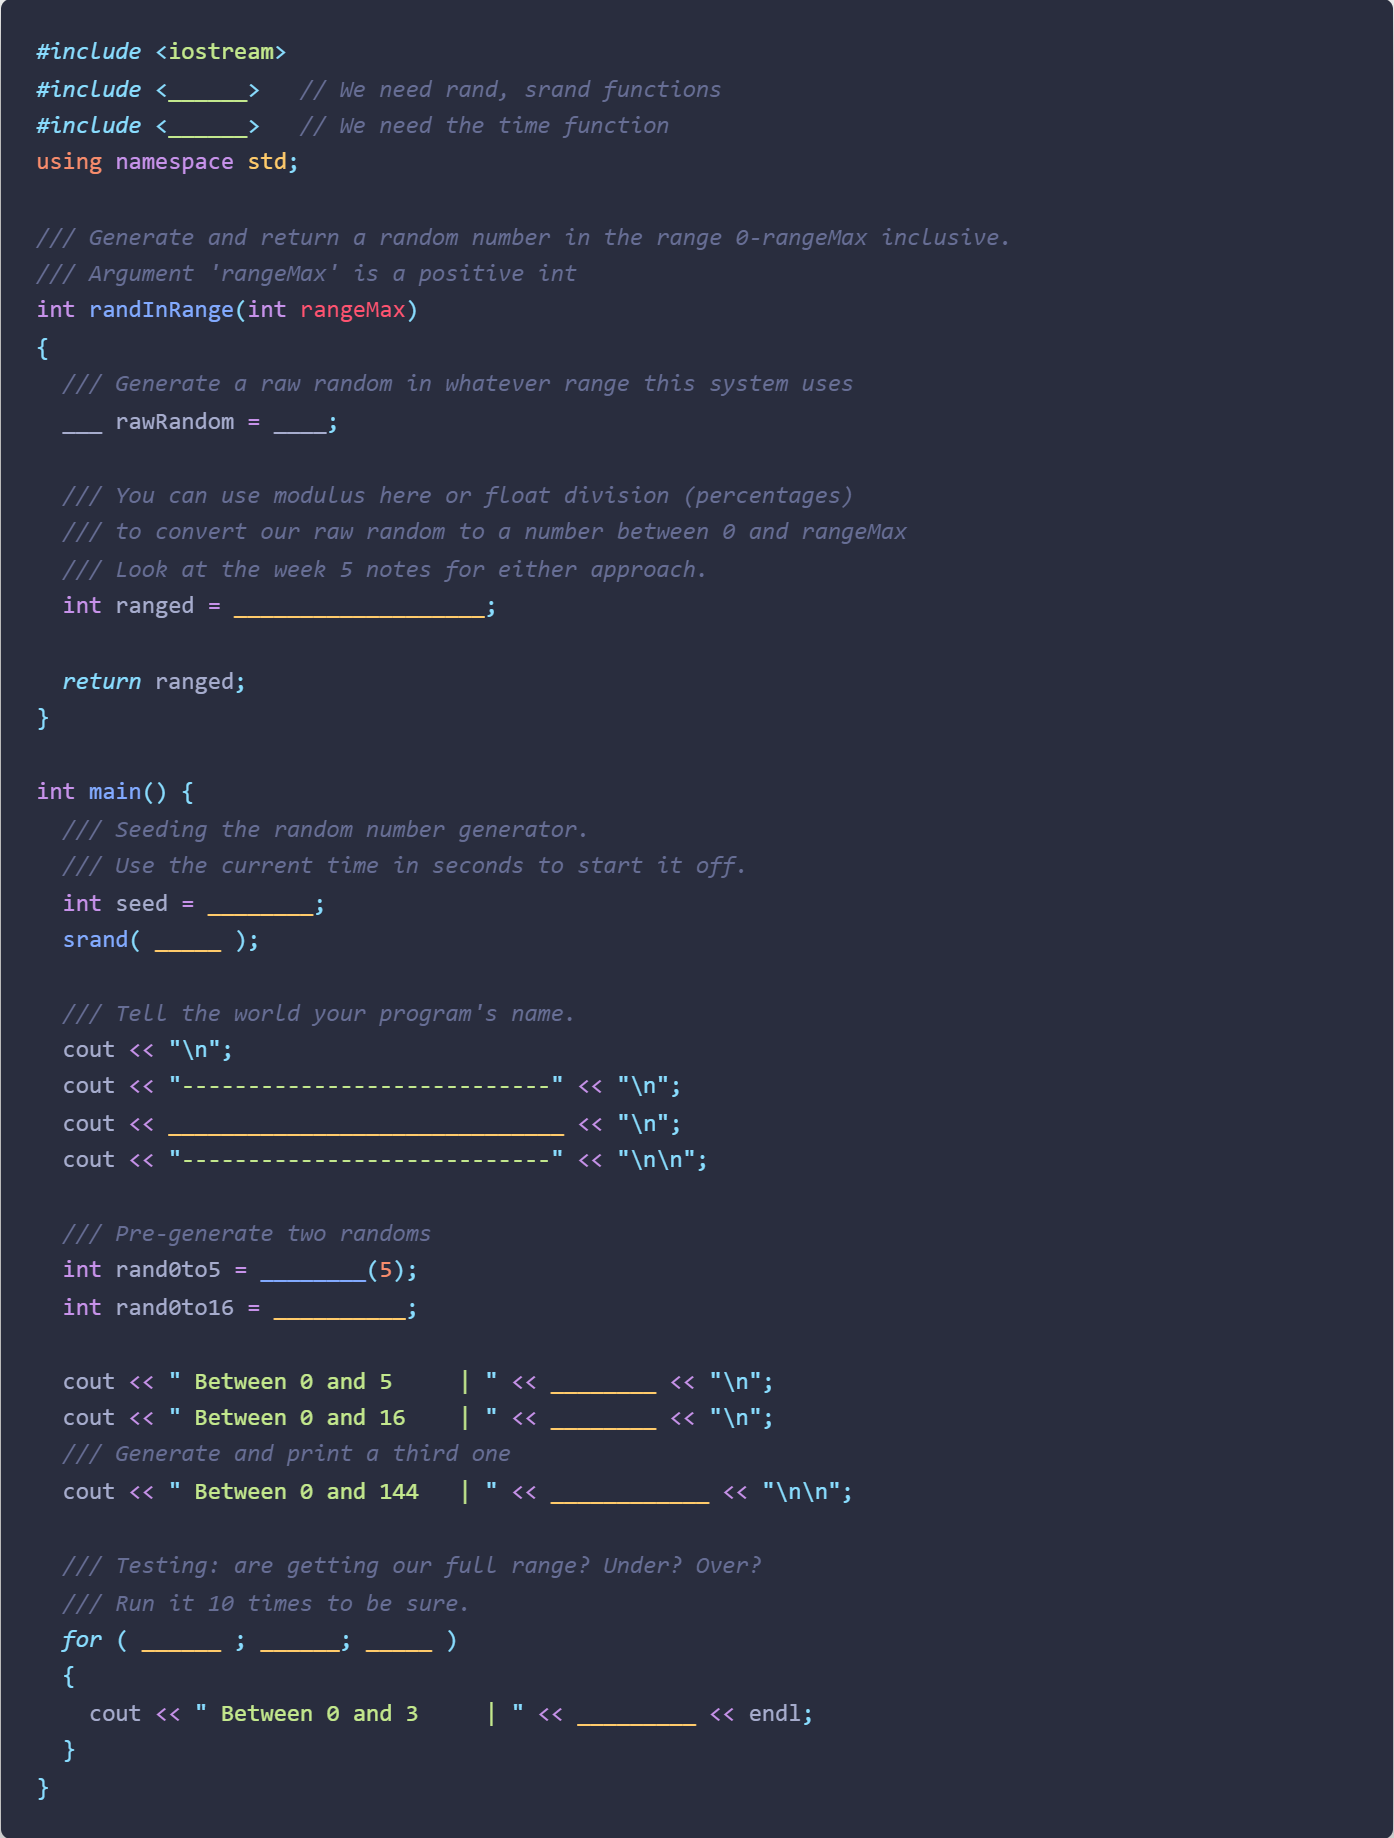
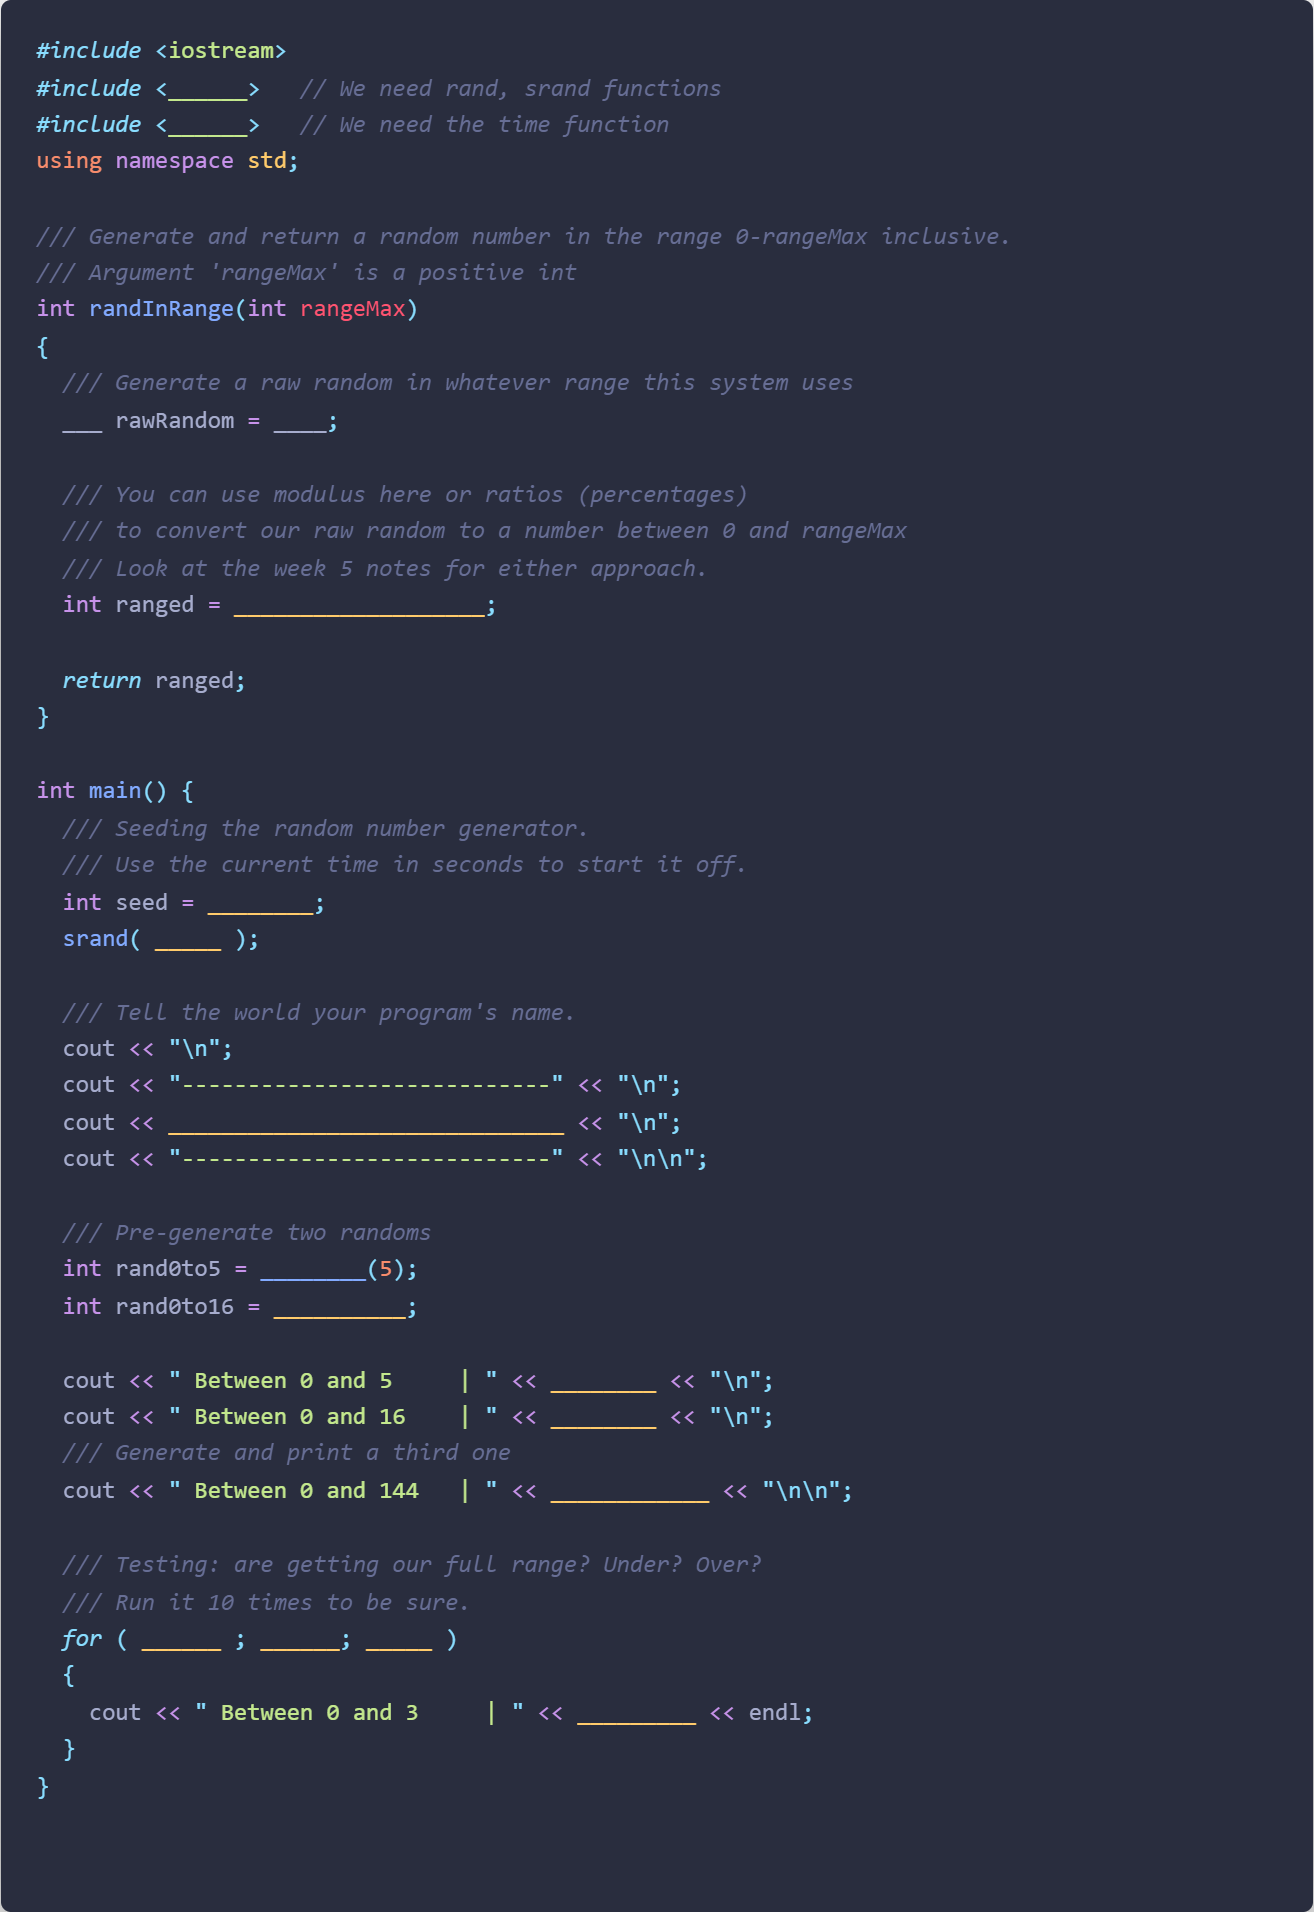
Finally explained randoms in range via modulo and ratio

diff --git a/content/en/torrens/ise102/week5/main_RandInRange.cpp b/content/en/torrens/ise102/week5/main_RandInRange.cpp
@@ -10,7 +10,7 @@ int randInRange(int rangeMax)
   /// Generate a raw random in whatever range this system uses
   ___ rawRandom = ____;
 
-  /// You can use modulus here or float division (percentages)
+  /// You can use modulus here or ratios (percentages)
   /// to convert our raw random to a number between 0 and rangeMax
   /// Look at the week 5 notes for either approach.
   int ranged = ___________________;

diff --git a/content/en/torrens/ise102/week5/index.md b/content/en/torrens/ise102/week5/index.md
@@ -309,75 +309,87 @@ The program should produce this output:
 
 **Do not look at any slot machine code outside of class!** You'll end up using it even if you don't intend to. Look at fundamental code, documentation, other kinds of games: not a slot machine.
 
-## Randoms in a custom range
+## Homework learning: randoms in a custom range
 
 `RAND_MAX` is already set in the _Standard Library_. To adjust the result of `rand()` to a **custom range** we have to use maths. One easy way: use the **remainder** of whole integer division.
 
 <!-- DEFINE RANGE -->
 
-#### Remainder as range
+## Randoms in range 1: Integer remainder
 
-The remainder of any number over 3 can only be 0, 1, or 2. This picture will help:
+In integer division, **dividing a by b,** produces a _**quotient**_, or how many times b divided **evenly** into a.
 
-{{< imgcard modulus_11_over_3 >}}
-There are <b>3</b> (quotient) sets of 3 balls. <b>2</b> (remainder) are left over.
-{{< /imgcard >}}
+The left over amount is the **remainder**. As you know, **a modulo b** gives us that.  
 
-We've had remainder 1, 2.. if we add another ball we'll have remainder 0. The rule then is:
+> a / b = quotient  
+> a % b = remainder 
 
-```cpp
-////  0, 1, 2 
-number0To2 = number % (3);
+### A pattern emerges:
 
-//// 0,1,2,3
-number0To3 = number % (4);
+If we keep dividing a by 3 what becomes obvious about the `b` and the remainder?
 
-//// A pattern emerges..
-number0ToN = number % (n + 1);
+|  a / b  | quotient | remainder |  
+|------|----------|------|  
+| 6 / 3 | 2 | **0** |  
+| 7 / 3 | 2 | **1** |  
+| 8 / 3 | 2 | **2** |  
+| 9 / 3 | 3 | **0** |  
+| 10 / 3 | 3 | **1** |  
+| 11 / 3 | 3 | **2** |  
+| 12 / 3 | 3 | **0** |
 
-```
+It looks like for **any value of a**, `a % b` produces a number from `0` to `b-1` before it divides evenly again.
 
-<!-- CHANGE TO CARTONS OF EGGS -->
-{{< alert title="Modulus: The Remainder" color= "primary" >}}
-**Dividing** one whole number by another gives us two results: the _**quotient**_ and _**remainder**_. 
-
-_C++_ gives us the _quotient_ with the division operator `/`, and the _remainder_ with the modulus operator, `%`. Look at **10 divided by 3:**
-
-![modulus_10_over_3](modulus_10_over_3.png)  
-
-There are **3** (quotient) sets of 3 balls. **1** (remainder) is left over.
-
-**In _C++_:**
-```cpp
-int quotient = 10 / 3;  // quotient == 3
-int remainder = 10 % 3;    // remainder == 1
-```
+{{< alert title="Rule: Maximum Remainder Size" color= "primary" >}}
+For any value of `a`, the **maximum remainder** of `a/b` is `b-1`.
 {{< /alert >}}
 
-## Converting random range to a ratio
+### Producing a range from 0 to n
+
+```cpp
+/// The rule above says anything % b maxes out at b minus one
+betweenZeroAndB_minus_one = anything % b;    
+
+/// So a % (b+1) gives us something from 0 to b right? 
+// Try 7 % (3+1).. which is 7 % 4.. remainder is 3. It works!
+betweenZeroAndB = anything % (b + 1)
+
+randomBetweenZeroAndB = rand() % (b+1);
+```
+
+{{< imgcard modulus_11_over_3 >}}
+There are <b>3</b> sets of 3 balls. <b>2</b> are left over. If we add one more.. it becomes 4 groups of three, with no leftovers.
+{{< /imgcard >}}
+
+## Randoms in range 2: Ratios
 
 A decimal between 0 and 1 is the ratio version of a percentage. If you multiply it by 100, you get the more recognisable percentage 0-100.
 
 **0.5 of something is 50%**, 0.1 is 10%, 0.99 is 99% etc.
 
-> At school you turned a fraction into a decimal ratio by dividing:  
-> _1/2 = 0.5_  
-> _1/4 = 0.25 (25%)_  
-> _2/4 = 0.5 (50%)_  
-> _3/4 = 0.75 (75%)_  
+At school you turned a **fraction** into a decimal **ratio** by dividing the top by the bottom:  
 
-So if we have a number `x` between zero and an upper limit (range maximum) we can figure out the ratio:  
+| Fraction  | Ratio  |  Percentage (ratio*100)  |  
+|------------|----------------------|-----------|  
+| 1/2   | 0.5   | 50%   |  
+| 1/4   | 0.25  | 25% |  
+| 2/4   | 0.5   | 50% |  
+| 3/4   | 0.75  | 75% |  
+
+So if we have a number **x** between **0** and a range's upper limit (**max**imum) we can figure out the ratio:  
 
 ```cpp
-ratio = x / current_range_maximum;
+ratio = x / max;
 ```
 
 ### Converting your ratio to a new range
 
-Once you **have a ratio**, you can easily express it as a number (y) in any range by multiplying the ratio by the new range maximum:  
+Once you **have a ratio**, you can easily express it as a number **y** in a new range: 
+
+**Multiply** the **ratio** by the **new** range **max**.
 
 ```cpp
-y = ratio * new_range_maximum;
+y = ratio * new_max;
 ```
 
 > 6 eggs in a carton that holds a dozen:  
@@ -390,22 +402,22 @@ y = ratio * new_range_maximum;
 | 0.5 | 20  |**10** |
 
 
-#### In C++
+### In C++
 
 ```cpp
 /// We already have accessto the maximum value
 /// of our random through RAND_MAX.
 int randomValue = rand();
 
-// `p = x / r` gives us percentage as a number from 0-1, so:
-float percentageDecimal = (float)randomValue / (float)RAND_MAX;
+// `r = x / max` gives us a ratio so:
+float ratio = (float)randomValue / (float)RAND_MAX;
 
-// We want a number between in range 0-100:
-int outOf100 = 100 * percentageDecimal;
+// So if we want it as a number from 0 to 10
+int outOf10 = ratio * 10;
 
 // We had to use (float) before each variable to force c++ to do
-// do floating point division. Otherwise, seeing two ints, it'll 
-// do integer division and truncate any number from 0-1 down to 0.
+// do floating point division. Otherwise it uses integer division.
+// Any decimal from 0 to 1 would be cut down to 0.
 ```
 ## Summary
 
